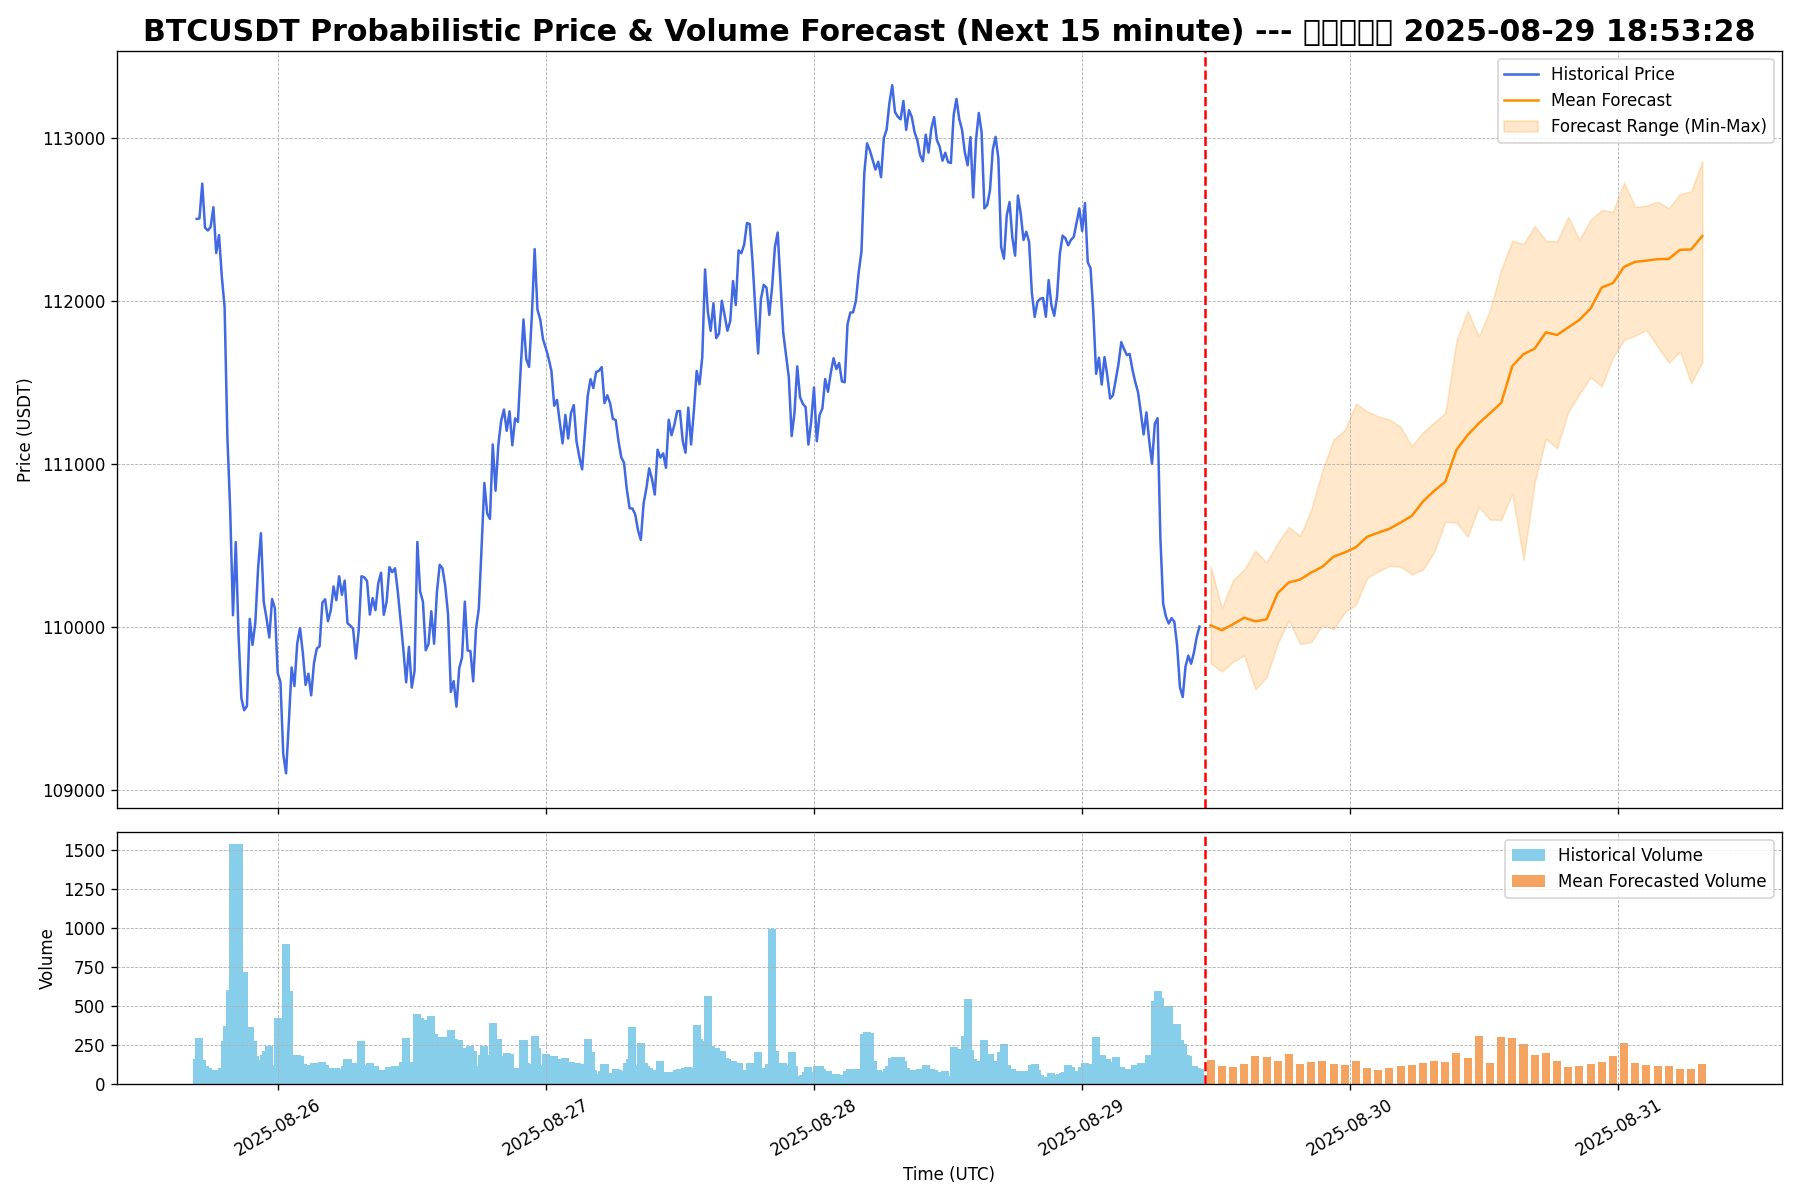
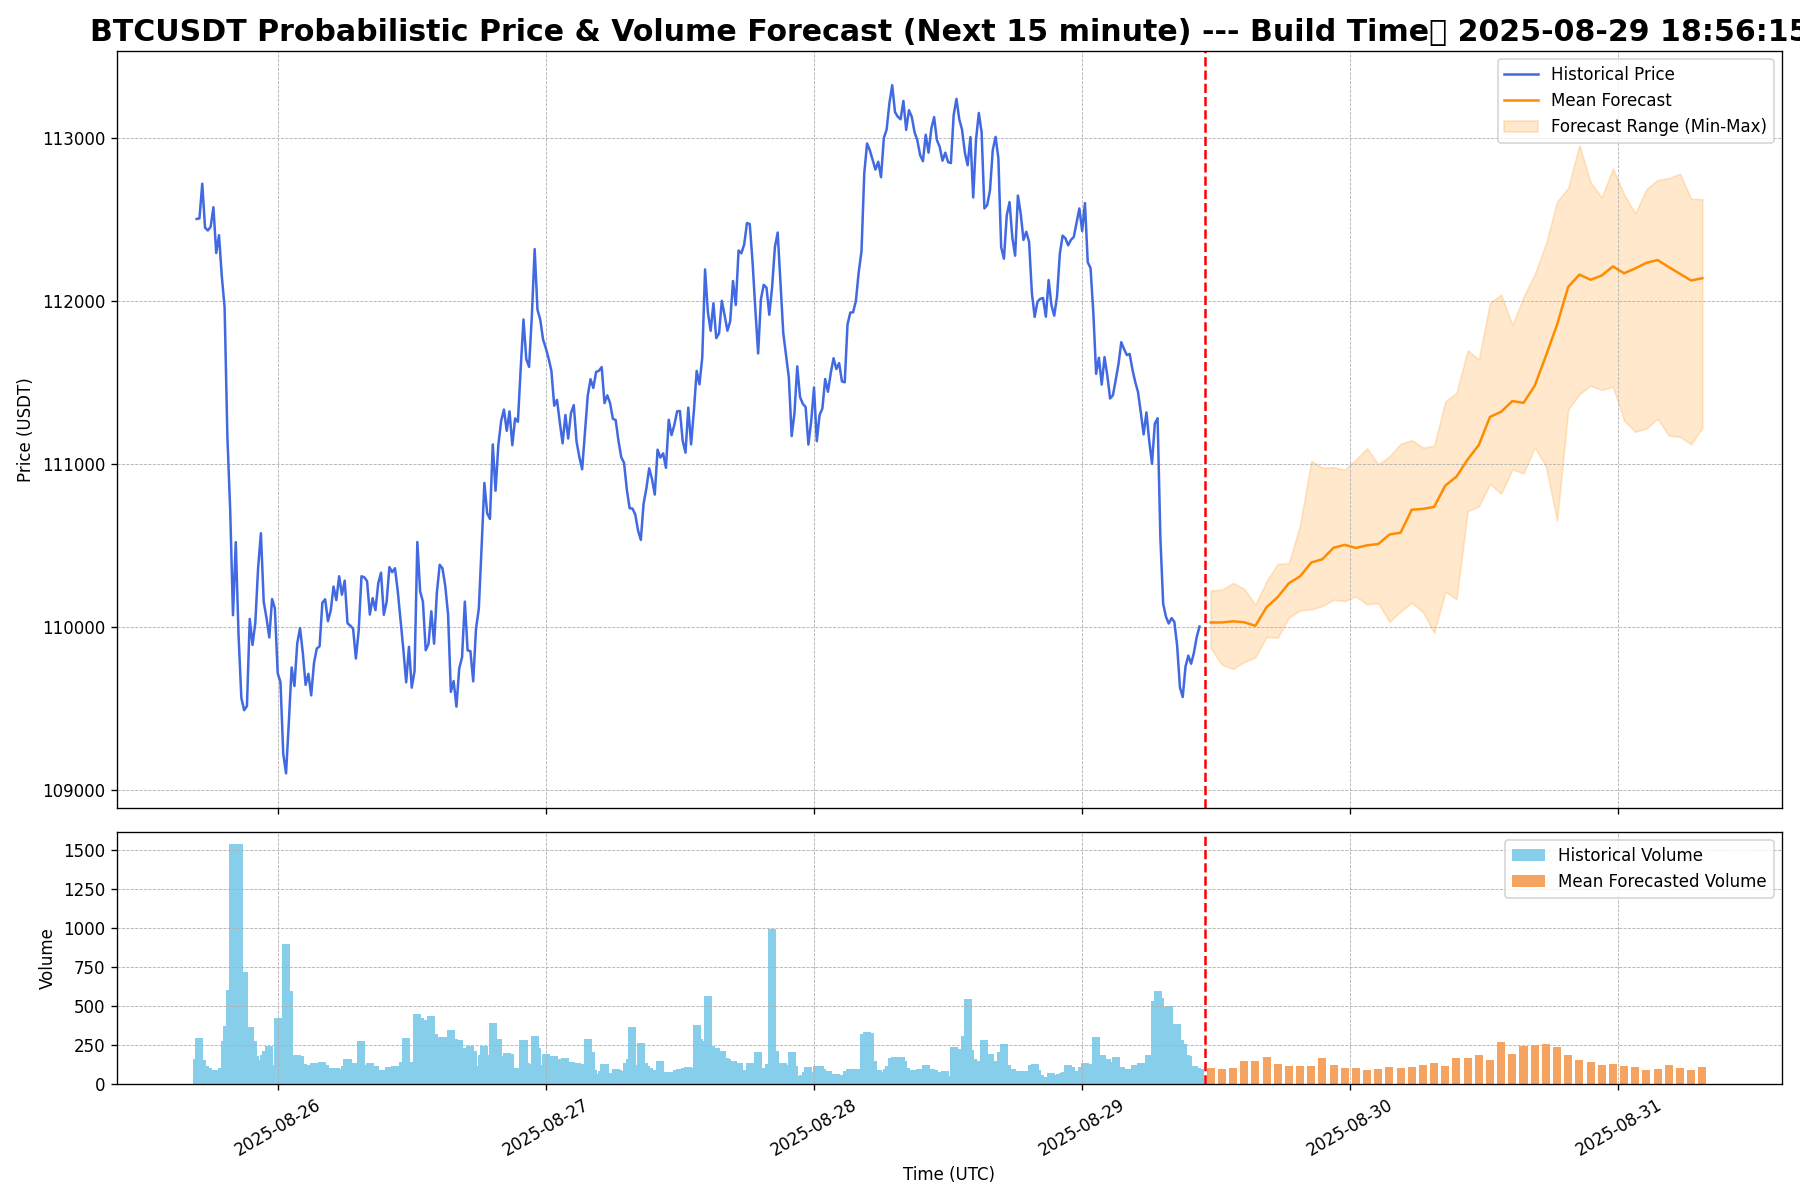
Auto-update forecast for 2025-08-29 10:56 UTC

Changed region(s): [[0.6533, 0.1233, 0.9644, 0.5858], [0.0311, 0.0, 1.0, 0.0617], [0.8089, 0.8633, 0.9022, 0.8942]]

diff --git a/btc_index.html b/btc_index.html
@@ -24,7 +24,7 @@
         <section id="live-dashboard">
             <h2>实时 BTC/USDT 预测仪表盘</h2>
             <div class="metadata">
-                <span>Last Updated: <strong id="update-time">2025-08-29 18:53:29</strong></span>
+                <span>Last Updated: <strong id="update-time">2025-08-29 18:56:15</strong></span>
                 <span>Data Source: Binance | Interval: 15minute </span>
             </div>
 
@@ -36,7 +36,7 @@
                 </div>
                 <div class="metric-card">
                     <h3>波动率放大（未来 24 小时）</h3>
-                    <p class="metric-value" id="vol-amp-prob">20.0%</p>
+                    <p class="metric-value" id="vol-amp-prob">60.0%</p>
                     <div class="metric-desc">未来 24 小时预测波动率超过近期历史波动率的概率。</div>
                 </div>
             </div>

diff --git a/update_predictions.py b/update_predictions.py
@@ -147,7 +147,7 @@ def create_plot(hist_df, close_preds_df, volume_preds_df):
     ax1.plot(pred_time, mean_preds, color='darkorange', linestyle='-', label='Mean Forecast')
     ax1.fill_between(pred_time, close_preds_df.min(axis=1), close_preds_df.max(axis=1), color='darkorange', alpha=0.2, label='Forecast Range (Min-Max)')
     # 生成一个当前时间的字符串，然后拼接进title
-    ax1.set_title(f'{Config["SYMBOL"]} Probabilistic Price & Volume Forecast (Next 15 minute) --- 生成时间： {datetime.now().strftime("%Y-%m-%d %H:%M:%S")}', fontsize=18, weight='bold')
+    ax1.set_title(f'{Config["SYMBOL"]} Probabilistic Price & Volume Forecast (Next 15 minute) --- Build Time： {datetime.now().strftime("%Y-%m-%d %H:%M:%S")}', fontsize=18, weight='bold')
     #ax1.set_title(f'{Config["SYMBOL"]} Probabilistic Price & Volume Forecast (Next 15 minute)', fontsize=14, weight='bold')
     ax1.set_ylabel('Price (USDT)')
     ax1.legend()
@@ -166,7 +166,7 @@ def create_plot(hist_df, close_preds_df, volume_preds_df):
         ax.tick_params(axis='x', rotation=30)
 
     fig.tight_layout()
-    chart_path = Config["REPO_PATH"] / 'btc_prediction_chart.png'
+    chart_path = Config["REPO_PATH"] / 'img' / 'btc_prediction_chart_.png'
     fig.savefig(chart_path, dpi=120)
     plt.close(fig)
     print(f"Chart saved to: {chart_path}")
